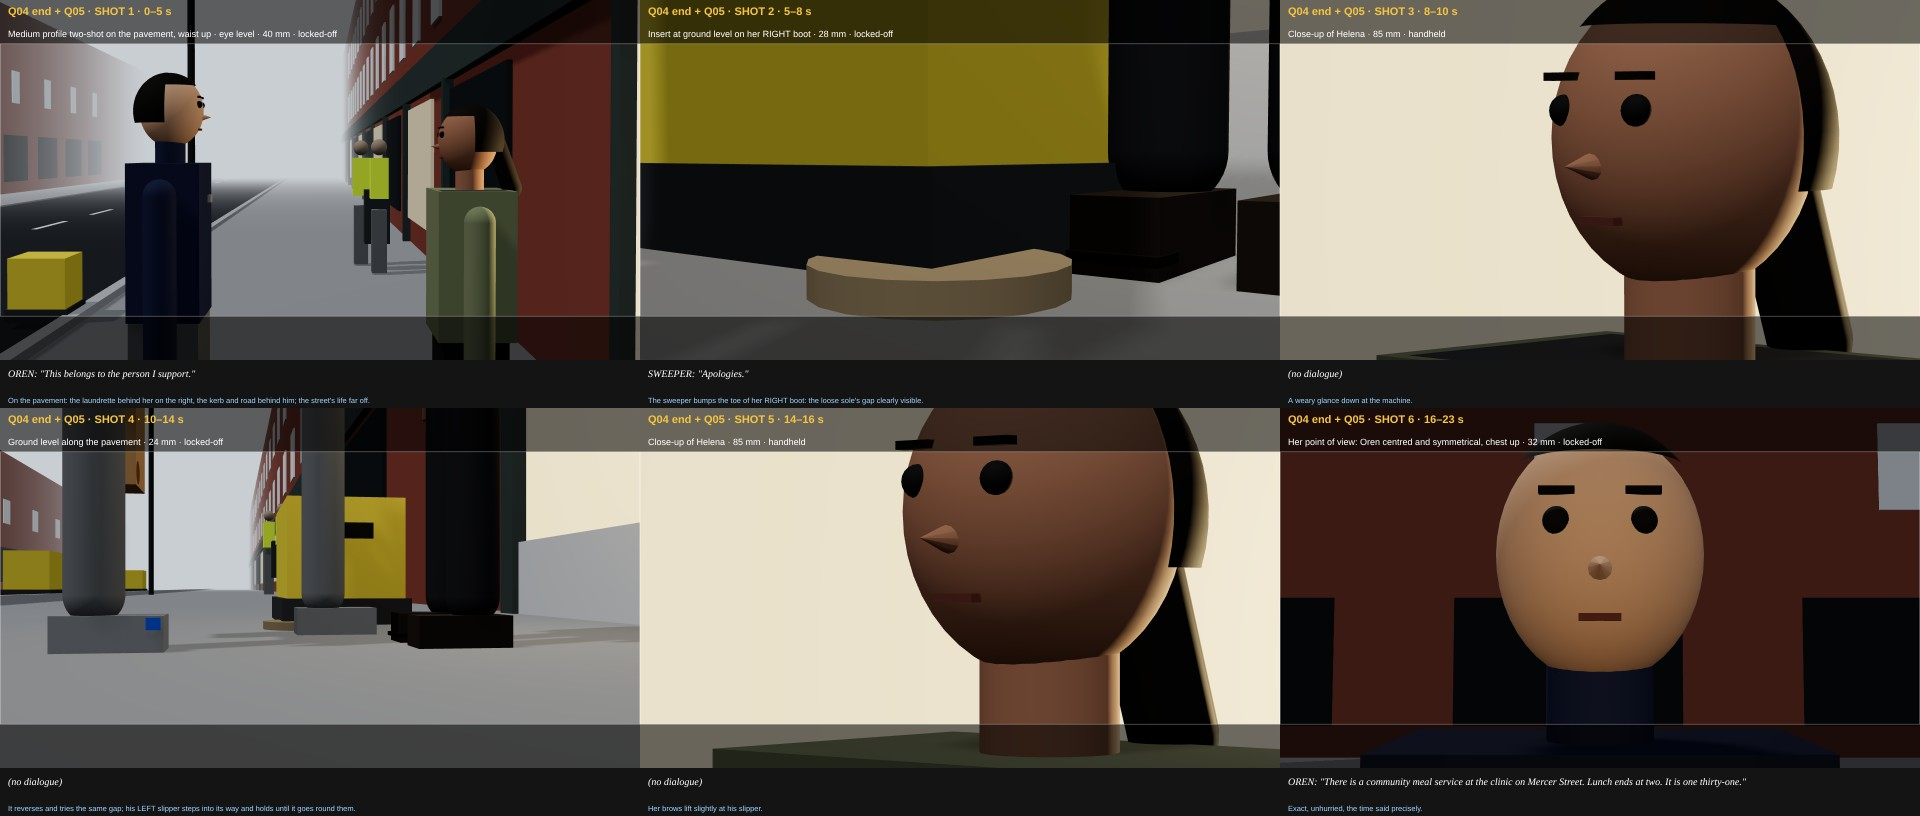
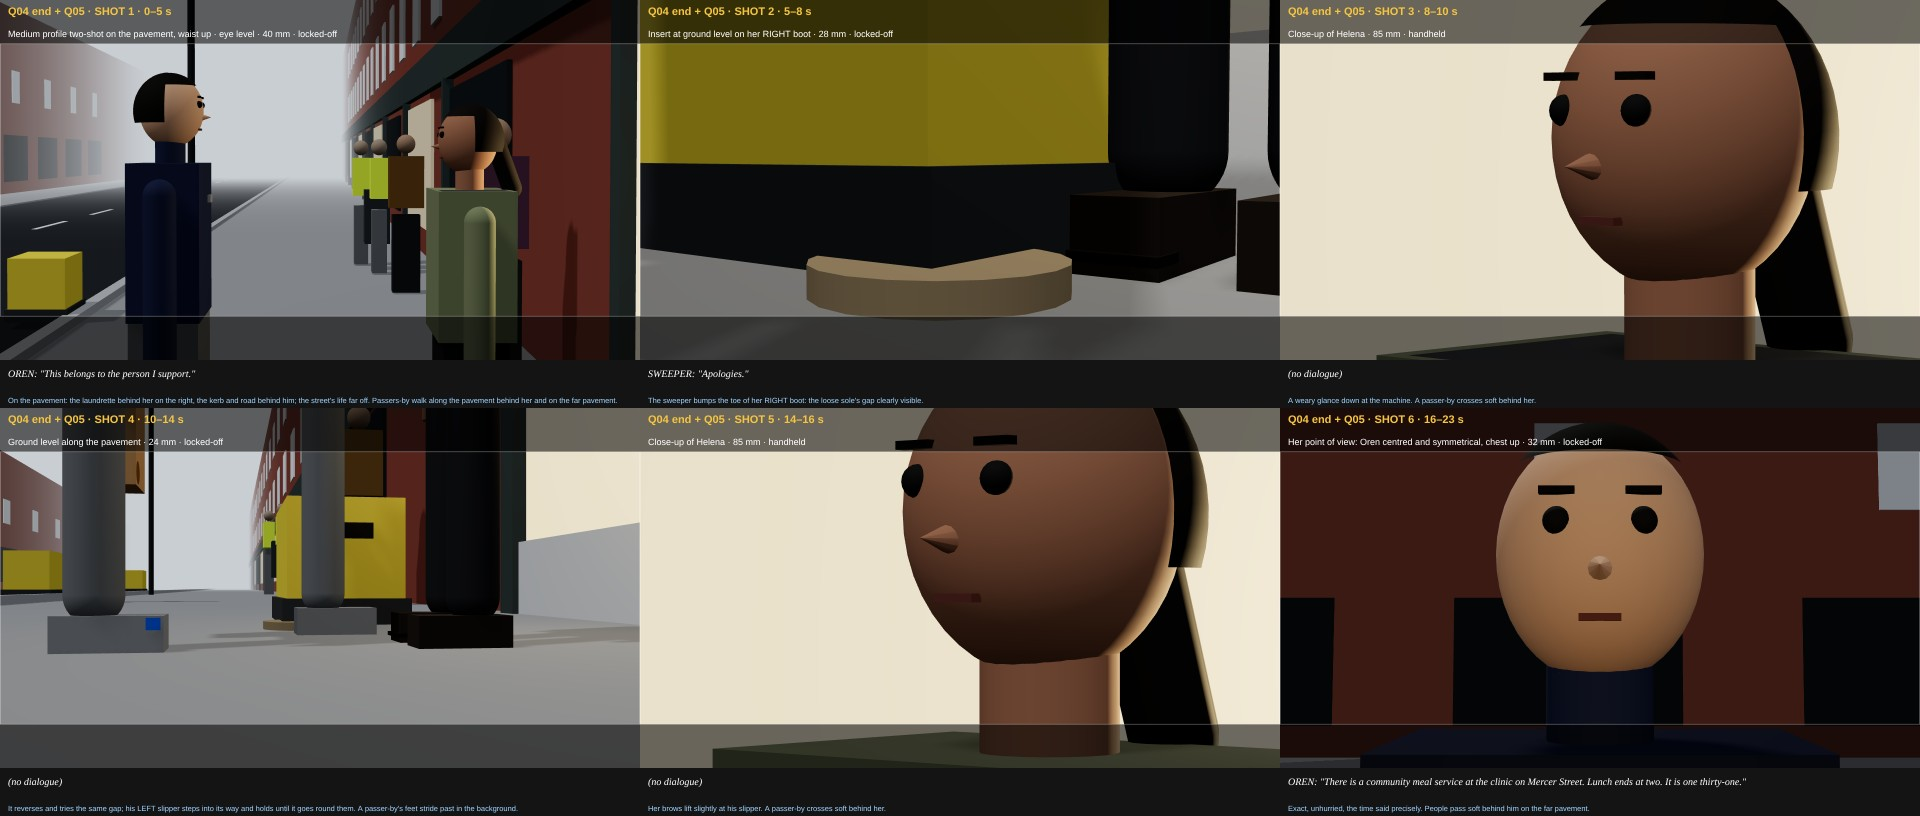
My Name Is Oren: passers-by in the Q04 end + Q05 board, animatic and prompt
Claude-Session: https://claude.ai/code/session_01Ufmw2t4zwmXuTeew9W7e51

diff --git a/ai-film/my-name-is-oren/tools/board/board.html b/ai-film/my-name-is-oren/tools/board/board.html
@@ -159,6 +159,24 @@ const stain = new THREE.Mesh(new THREE.CircleGeometry(0.035, 20), mat(0x7a5126, 
 stain.position.set(-0.06, -0.29, 0.056); bag.add(stain);
 oren.userData.hands.left.add(bag); bag.position.set(0, -0.06, 0);
 
+// ---- passers-by who walk along the pavements (moved by window.setTime)
+const walkers = [];
+function passer(x0, z, speed, top, legs) {
+  const g = new THREE.Group();
+  box(0.4, 0.6, 0.26, mat(top), 0, 1.3, 0, g); box(0.32, 0.9, 0.22, mat(legs), 0, 0.47, 0, g);
+  const h = new THREE.Mesh(new THREE.SphereGeometry(0.11, 16, 12), mat(0x9a7f6a)); h.position.set(0, 1.74, 0); h.castShadow = true; g.add(h);
+  g.traverse(m => { if (m.isMesh) m.castShadow = true; });
+  g.position.set(x0, 0, z); g.rotation.y = speed > 0 ? Math.PI / 2 : -Math.PI / 2; scene.add(g);
+  walkers.push({ g, x0, speed });
+}
+passer(-9, 0.55, 1.2, 0x5a3a52, 0x2a2a2e);     // near pavement, window side, walking toward the corner
+passer(6, 3.35, -1.3, 0x2e3a4a, 0x3a3a3e);     // near pavement, kerb side, walking the other way
+passer(-14, 0.7, 1.1, 0x7a5a2a, 0x2a2a2e);
+passer(-20, 13.6, 1.3, 0x7a2f2f, 0x2b2b30);    // far pavement
+passer(14, 13.9, -1.2, 0x445566, 0x2b2b30);
+window.setTime = (t = 0) => { for (const w of walkers) w.g.position.x = w.x0 + w.speed * t; };
+window.setTime(4);
+
 // ---- the pavement sweeper that bumps her boot (movable)
 const sweeper = new THREE.Group();
 box(0.62, 0.42, 0.46, mat(0xd9c23a, { roughness: 0.6 }), 0, 0.3, 0, sweeper);

diff --git a/ai-film/my-name-is-oren/tools/board/animatic.js b/ai-film/my-name-is-oren/tools/board/animatic.js
@@ -26,7 +26,9 @@ const dur = s => { const m = s.time.match(/([\d.]+)\D+([\d.]+)/); return +m[2] -
   await page.goto(`http://127.0.0.1:${server.address().port}/board.html`);
   await page.waitForFunction(() => window.ready === true, null, { timeout: 60000 });
   let n = 0;
+  let t0 = 0;
   for (const s of spec.shots) {
+    s.t0 = t0; t0 += dur(s);
     const frames = Math.round(dur(s) * FPS);
     for (let i = 0; i < frames; i++) {
       const t = i / FPS, u = frames > 1 ? i / (frames - 1) : 0;
@@ -44,7 +46,7 @@ const dur = s => { const m = s.time.match(/([\d.]+)\D+([\d.]+)/); return +m[2] -
           cam.target = [cam.target[0] + a * 0.5 * w(0.27, 5), cam.target[1] + a * 0.4 * w(0.37, 6), cam.target[2]];
         }
         const load = src => new Promise(r => { const im = new Image(); im.onload = () => r(im); im.src = src; });
-        window.setState(s.state); const im = await load(window.renderShot(cam));
+        window.setState(s.state); window.setTime(s.t0 + t); const im = await load(window.renderShot(cam));
         const c = document.createElement('canvas'); c.width = 1280; c.height = 720;
         const g = c.getContext('2d'); g.drawImage(im, 0, 0);
         const band = 1280 / 2.35, bar = (720 - band) / 2;

diff --git a/ai-film/my-name-is-oren/tools/board/render.js b/ai-film/my-name-is-oren/tools/board/render.js
@@ -28,7 +28,7 @@ const server = http.createServer((req, res) => {
   for (const [i, s] of spec.shots.entries()) {
     const url = await page.evaluate(async ({ s, title }) => {
       const load = src => new Promise(r => { const im = new Image(); im.onload = () => r(im); im.src = src; });
-      const main = await load((window.setState(s.state), window.renderShot(s.cam)));
+      const main = await load((window.setState(s.state), window.setTime(s.boardTime ?? 4), window.renderShot(s.cam)));
       const inset = s.inset ? await load(window.renderShot(s.inset)) : null;
       const c = document.createElement('canvas'); c.width = 1280; c.height = 720 + 96;
       const g = c.getContext('2d');

diff --git a/ai-film/my-name-is-oren/prompts/Q04.md b/ai-film/my-name-is-oren/prompts/Q04.md
@@ -279,3 +279,4 @@ AVOID: the bag held out, raised or offered; his arm bent forward; the bag in his
 **x t2 review against Q01–Q03 (the author: "the street is empty and they are in the center … watch all the videos from Q01").** Q01 and Q02 establish a working street (sweepers in the gutter, city units at a bin, passers-by) and the two of them on the pavement in front of the laundrette by the lamp post and the low wall; Q03 keeps them there. x t2's two wides (shot 1 and shot 7) put them in the middle of an empty road: the prompt's own words ("a lot of empty sky and wet pavement around them", "the street recedes between them") overrode the board. The close-ups and inserts (shots 2–6) are consistent and stay. **Pickups, for approval:** board `design/boards/Q04_pickups_board.jpg`; `prompts/sent/Q04_pickup_wide1.txt` (5 s, extends `out/edits/Q03_tail10.mp4`, ≈ $1.84) and `prompts/sent/Q04_pickup_wide7.txt` (5 s, extends `out/edits/Q04x_t2_13to21.mp4`, ≈ $1.61); images `CHAR_helena_t1`, `CHAR_oren_t1`, `ENV_laundrette_t1`, `Q02_end_author` (their marks on the pavement), `frame_street_life_Q01t1_1.5s` (sweepers), `frame_units_Q01t1_5.0s` (units). Assembly: wide 1 replaces x t2 0–4.79; x t2 4.79–21.13; wide 7 replaces 21.13–26.
 
 **Combined with Q05 (the author, 2026-11-23: "generate the last part that has the error together with Q05").** One extension from `out/edits/Q04x_t2_13to21.mp4` (x t2 up to "Doesn't matter."), 23 s: Q04's shot 7 again on the pavement (L11), then Q05 (A22, L12, A23, L13). Board `design/boards/Q04end_Q05_board.jpg`, animatic `out/review/Q04end_Q05_animatic.mp4`, prompt `prompts/sent/Q04end_Q05_ext_v1.txt` (lines verified). Images, in order: `CHAR_helena_t1`, `CHAR_oren_t1`, `ENV_laundrette_t1`, `Q02_end_author`, `PROP_sweeper_t1`, `PROP_helena-boots_t1`, `PROP_oren-slippers_t1`, `frame_street_life_Q01t1_1.5s`. ≈ $3.83. His LEFT slipper (the plain one) blocks the sweeper, keeping the blue tape for B21. The loose sole on her RIGHT boot is established in the bump insert. Q04's opening wide (x t2 0–4.79, mid-road) is left as the author said; to revisit. **Waiting for approval.**
+The author asked for people passing around them (2026-11-23): `prompts/sent/Q04end_Q05_ext_v2.txt` adds passers-by in every shot (silent, a step or two away, never stopping) and @Image9 `refs/frame_passersby_Q02t1_0.25s.jpg`; the board set's passers-by now walk in the animatic. Same cost (≈ $3.83). **Waiting for approval.**
